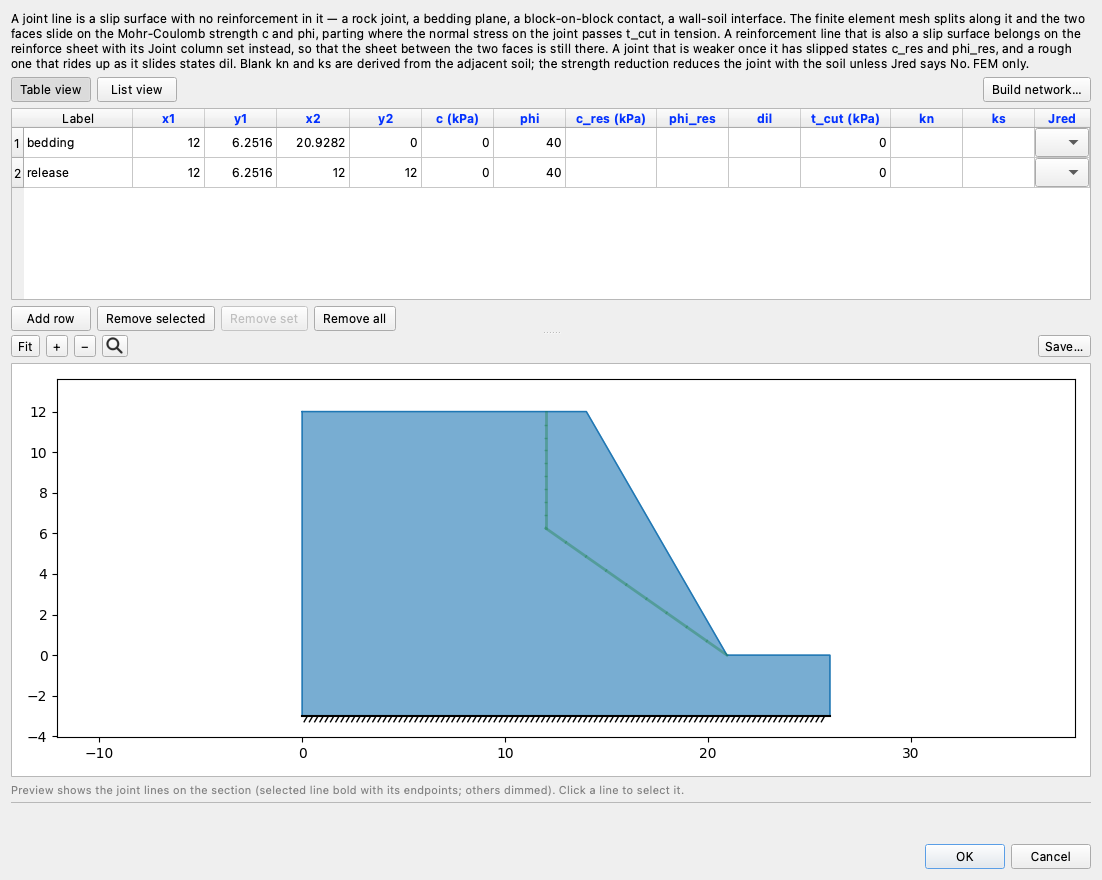
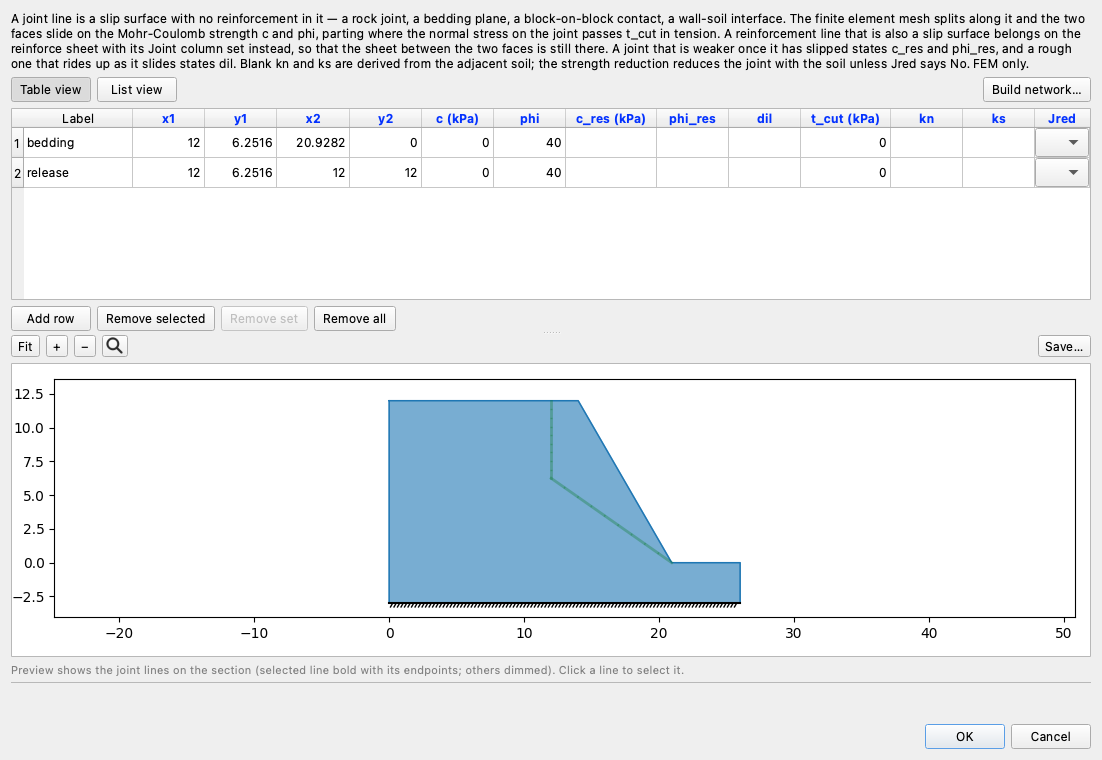
FEM-5: plots at width 900, sketches at 800; joints-editor preview given a little less extra height
Claude-Session: https://claude.ai/code/session_01XjjT2aBxw8gY7EFdpoUcpj

diff --git a/tools/capture_tutorial_screenshots.py b/tools/capture_tutorial_screenshots.py
@@ -2782,7 +2782,7 @@ def fem05_joints_editor():
     from studio.editors import JointsEditor
 
     dlg = JointsEditor().build(_load(FEM05_SLAB), None)
-    return _grab(_grow_preview(_line_table(dlg, through="jred"), 260),
+    return _grab(_grow_preview(_line_table(dlg, through="jred"), 140),
                  "fem05_studio_joints_editor.png")
 
 

diff --git a/docs/tutorials/fem05_rock_slope_joints.md b/docs/tutorials/fem05_rock_slope_joints.md
@@ -89,7 +89,7 @@ Download
 with **File → Open…**. Its units are metric, so lengths read in metres, unit
 weights in kN/m³, and strengths and stiffnesses in kPa.
 
-![The starter file: the section as one polygon of rock, with nothing on the joints worksheet](images/fem05_inputs_start.png){width=800}
+![The starter file: the section as one polygon of rock, with nothing on the joints worksheet](images/fem05_inputs_start.png){width=900}
 
 The section is entered as a single closed polygon of rock; a profile line would
 have done as well, and either way the mesh is one zone. The rock's properties
@@ -136,7 +136,7 @@ A new row opens with `c`, `phi` and `t_cut` at 0 and every other column blank;
 leave `t_cut` at 0 and the rest blank. With the two rows in, the Inputs plot draws
 the joint lines in their own style, distinct from profile lines and reinforcement:
 
-![The two joint lines on the Inputs plot, drawn in the joint line style](images/fem05_inputs_joints.png){width=800}
+![The two joint lines on the Inputs plot, drawn in the joint line style](images/fem05_inputs_joints.png){width=900}
 
 ---
 
@@ -168,7 +168,7 @@ reason [FEM-1](fem01_strength_reduction.md) gives.
 The dialog reports what it built: **768 nodes, 344 elements, and 12 joint
 elements on 2 jointed lines.**
 
-![The mesh, with the two jointed lines drawn over it](images/fem05_mesh.png){width=800}
+![The mesh, with the two jointed lines drawn over it](images/fem05_mesh.png){width=900}
 
 Along a joint line the mesher gives every node one copy for each piece of
 material around it, so the rock above the bedding plane and the rock below it no
@@ -211,7 +211,7 @@ and there is no strain field to draw; everything that happened, happened on the
 two lines, and **Shear strain** draws as **Joint slip** instead: the section a
 flat gray, and the only colorbar the slip on the joints, in metres.
 
-![The joint slip at the critical factor: the bedding plane bright along nearly its whole length, the release joint drawn as two parted lines where it has opened](images/fem05_joint_slip.png){width=800}
+![The joint slip at the critical factor: the bedding plane bright along nearly its whole length, the release joint drawn as two parted lines where it has opened](images/fem05_joint_slip.png){width=900}
 
 The color is the slip, and it reads the way the slab moved: along the bedding
 plane it grows from 0.14 mm at the release joint to 0.39 mm at the toe, the
@@ -233,7 +233,7 @@ tint of its own, the joint faces colored by how far they have slid, and the
 undeformed outline dashed behind it. On a jointed model, **Displacement
 vectors** shows this same picture.
 
-![The deformed blocks at the critical factor: the slab has moved down the bedding plane and away from the release joint](images/fem05_fem_blocks.png){width=800}
+![The deformed blocks at the critical factor: the slab has moved down the bedding plane and away from the release joint](images/fem05_fem_blocks.png){width=900}
 
 The slab has moved as one body. It slid down the bedding plane and parted from
 the release joint, and every bit of that movement was taken up on the two lines;
@@ -374,7 +374,7 @@ Close the joints editor. The Inputs plot now shows six joint lines — the base
 plane and the five columns standing on it — with the joint region's outline
 dashed behind them:
 
-![The generated network on the Inputs plot: five columns standing on the base plane](images/fem05_inputs_network.png){width=800}
+![The generated network on the Inputs plot: five columns standing on the base plane](images/fem05_inputs_network.png){width=900}
 
 ---
 
@@ -392,7 +392,7 @@ about two minutes — nearer three without the compiled kernel — and reports
 
 >>**FS = 1.105**
 
-![The deformed blocks: the columns lean out over the base plane rather than sliding along it](images/fem05_fem_blocks_topple.png){width=800}
+![The deformed blocks: the columns lean out over the base plane rather than sliding along it](images/fem05_fem_blocks_topple.png){width=900}
 
 Read the deformed-block figure first. The columns are separate bodies and they
 move as bodies, but they do not slide down the base plane the way Part 1's slab
@@ -403,7 +403,7 @@ method was built for: every bit of the movement is taken up on the contacts, and
 the factor of safety is the factor by which the contacts have to be weakened
 before the stack starts to go over.
 
-![Joint slip on the toppling stack: the base plane slipping along most of its length, the column joints opened along their lower parts and in contact only at their tops](images/fem05_joint_slip_topple.png){width=800}
+![Joint slip on the toppling stack: the base plane slipping along most of its length, the column joints opened along their lower parts and in contact only at their tops](images/fem05_joint_slip_topple.png){width=900}
 
 The joint slip figure shows the same mechanism as contact states. Each column
 joint has opened along most of its length and is in contact only near the top:
@@ -453,7 +453,7 @@ of a blocky rock mass with no dominant joint set. Over this slope's toppling
 zone, at a block size of 2 m, it writes **58 joint lines** — about fifteen cells
 — where the parallel set wrote five:
 
-![The same region filled by the Voronoi generator instead: about fifteen blocks and 58 joint lines](images/fem05_inputs_voronoi.png){width=800}
+![The same region filled by the Voronoi generator instead: about fifteen blocks and 58 joint lines](images/fem05_inputs_voronoi.png){width=900}
 
 That is a picture of the generator rather than a model to run here. The
 mechanism it describes is real, but a section with that many contacts in it is a
